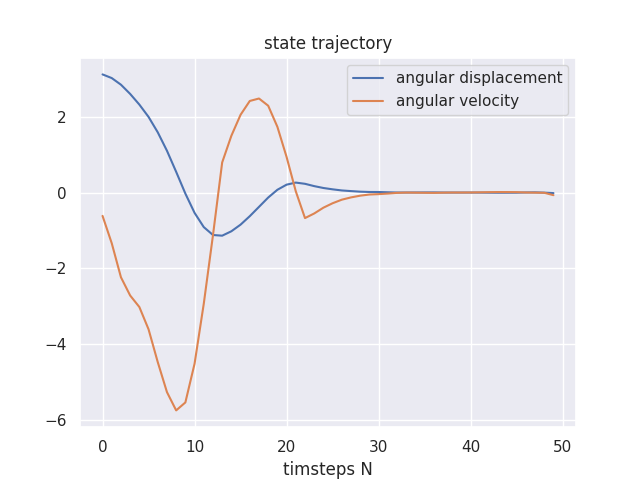
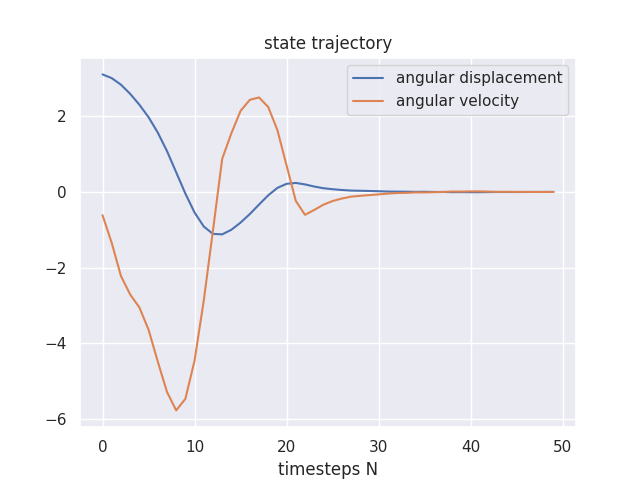
updated graphs

diff --git a/src/noc_algo/mpc_noc.py b/src/noc_algo/mpc_noc.py
@@ -14,7 +14,7 @@ plot_utils = importlib.util.module_from_spec(spec)
 spec.loader.exec_module(plot_utils)
 vis = plot_utils.Plotter(utils_path + 'results/', True)
 
-def extractSolFromNlpSolver(res):
+def extractSolFromNlpSolver(res, iter_count):
     w_opt_np = np.array(res["x"])
 
     u_opt = []
@@ -42,7 +42,7 @@ def extractSolFromNlpSolver(res):
         g_1.append(g[i])
         g_2.append(g[i+1])
 
-    return u_opt, th_opt, thdot_opt, g_1, g_2, loss
+    return u_opt, th_opt, thdot_opt, g_1, g_2, loss, iter_count
 
 
 def simultaneous_opt(x0bar,L, pend_dyn, N , gamma):
@@ -56,7 +56,7 @@ def simultaneous_opt(x0bar,L, pend_dyn, N , gamma):
     x = MX.sym('x',nx,1)
     u = MX.sym('u',nu,1)
     x_next = pend_dyn.simulate_next_state(x, u)
-    print('type x_next:', type(x_next))
+    # print('type x_next:', type(x_next))
     # integrator
     F = Function('F', [x, u], [x_next], \
                 ['x', 'u'], ['x_next'])
@@ -88,8 +88,11 @@ def simultaneous_opt(x0bar,L, pend_dyn, N , gamma):
     nlp = {"x": w,
            "f": L,
            "g": g}
+           
     opts_dict = {}
     opts_dict["ipopt.print_level"] = 0
+    opts_dict["print_time"] = 0
+
     solver = nlpsol('solver','ipopt', nlp, opts_dict)
 
     arg = {}
@@ -101,13 +104,14 @@ def simultaneous_opt(x0bar,L, pend_dyn, N , gamma):
 
     # Solve the problem
     res = solver(**arg)
-    return extractSolFromNlpSolver(res)
+    it = solver.stats()['iter_count']
+    return extractSolFromNlpSolver(res, it)
 
 if __name__ == '__main__':
     
     N_rk4 = 10      # RK4 steps
     dt = 0.1        #delta time s
-    N = 50         # horizon length
+    N = 500         # horizon length
     gamma = 0.99
 
     costs = []
@@ -116,6 +120,8 @@ if __name__ == '__main__':
     thdot_opt_f = [] 
     g_1_f = []
     g_2_f = []
+    iter_f = []
+    iter_total = 0
 
     with contextlib.closing(PendulumEnv(N_rk4 = N_rk4, DT = dt)) as env:
         s = env.reset(fixed = True) #fixed start at pi,0
@@ -123,17 +129,21 @@ if __name__ == '__main__':
         c = 0
         for i in range(N):
             env.render()
-            u_opt, th_opt, thdot_opt, g_1 , g_2, l = simultaneous_opt(s ,c ,env, N-i, gamma)
-            s, c, d, _ = env.step(u_opt[0], noise = False) #state noise
+            u_opt, th_opt, thdot_opt, g_1 , g_2, l, iter_count = simultaneous_opt(s ,c ,env, N-i, gamma)
+            s, c, d, _ = env.step(u_opt[0], noise = True) #state noise
             u_opt_f.append(u_opt[0])
             th_opt_f.append(th_opt[0])
             thdot_opt_f.append(thdot_opt[0])
             costs.append(c)  #gamma is implicit
             g_1_f.append(g_1[0])
             g_2_f.append(g_2[0])
+            iter_f.append(iter_count)
+            
 
         # visualise solution
     print("initial state:", x0bar)
+    print("total iterations:", sum(iter_f))
+    vis.plot_stats(iter_f, sum(iter_f))
     vis.plot_costs(costs)
     vis.plot_state_trajectory(th_opt_f, thdot_opt_f)
     vis.plot_control_trajectory(u_opt_f)

diff --git a/src/utils_common.py b/src/utils_common.py
@@ -14,7 +14,7 @@ class Plotter:
         fig, ax = plt.subplots()
         ax.plot(th, label='angular displacement')
         ax.plot(thdot, label='angular velocity')
-        ax.set_xlabel('timsteps N')
+        ax.set_xlabel('timesteps N')
         ax.set_title('state trajectory')
         ax.legend(loc='upper right')
 
@@ -28,7 +28,7 @@ class Plotter:
         fig, (ax1, ax2) = plt.subplots(2,1, sharex= True)
         ax1.plot(g_1, label='g_1')
         ax2.plot(g_2, label='g_2')
-        ax2.set_xlabel('timsteps N')
+        ax2.set_xlabel('timesteps N')
         fig.suptitle('dynamics')
         ax1.legend(loc='upper right')
         ax2.legend(loc='upper right')
@@ -41,7 +41,7 @@ class Plotter:
     def plot_control_trajectory(self, u):
             fig, ax = plt.subplots()
             ax.plot(u, label='Control')
-            ax.set_xlabel('timsteps N')
+            ax.set_xlabel('timesteps N')
             ax.set_title('Control trajectory')
             ax.legend(loc='upper right')
 
@@ -54,7 +54,7 @@ class Plotter:
     def plot_costs(self, costs):
         fig, ax = plt.subplots()
         ax.plot(costs, label='Cost')
-        ax.set_xlabel('timsteps N')
+        ax.set_xlabel('timesteps N')
         ax.set_title('Cost trajectory')
         ax.legend(loc='upper right')
 
@@ -64,3 +64,17 @@ class Plotter:
             fig.savefig(self.result_path + 'Cost_noc.png')
         else:
             fig.savefig(self.result_path + 'Cost_rl.png')
+
+    def plot_stats(self, stats, total):
+        fig, ax = plt.subplots()
+        ax.plot(stats, label='iterations')
+        ax.set_xlabel('timesteps N')
+        ax.set_title('No. of iterations to find solution (Total = %d)'%(total) )
+        ax.legend(loc='upper right')
+
+        #save the plot
+        my_path = os.path.abspath(__file__)
+        if (self.is_noc):
+            fig.savefig(self.result_path + 'iter_noc.png')
+        else:
+            fig.savefig(self.result_path + 'iter_rl.png')

diff --git a/src/rl_algo/mypendulum.py b/src/rl_algo/mypendulum.py
@@ -50,7 +50,7 @@ class PendulumEnv(gym.Env):
         # return vertcat(omega, self.t1 * np.sin(theta + np.pi) + self.t2*u)
         return dyn_eqn
 
-    def rk4step(self, x, u, h):
+    def rk4step(self, x, u, h, noise):
         # % one rk4 step
         # % inputs:
         # %  x             initial state of integration
@@ -65,11 +65,12 @@ class PendulumEnv(gym.Env):
         x_next = x + h/6*(k1 + 2*k2 + 2*k3 + k4)
         a_max = np.array([np.pi, self.max_speed])
 
-        x_next[1] += np.random.normal(loc=0.0, scale=0.01, size=None)
+        if noise:
+            x_next[1] += np.random.normal(loc=0.0, scale=0.01, size=None)
         x_next = np.clip(x_next, a_min = -a_max, a_max = a_max)
         return x_next
 
-    def step(self,u):
+    def step(self,u, noise):
         th, thdot = self.state # th := theta
 
         # g = 10.
@@ -96,7 +97,7 @@ class PendulumEnv(gym.Env):
         else: #rk4 integrator
             h = dt/self.N_rk4
             for i in range(self.N_rk4):
-                self.state = self.rk4step(self.state, u, h)
+                self.state = self.rk4step(self.state, u, h, noise)
 
         return self._get_obs(), -costs, False, {}
 

diff --git a/src/rl_algo/run_ddpg_continuous.py b/src/rl_algo/run_ddpg_continuous.py
@@ -66,7 +66,7 @@ if __name__ == '__main__':
                 for _ in range(500):
                     env.render()
                     a = ddpg.get_action(s, is_testing=True)
-                    s, _, d, _ = env.step(a)
+                    s, _, d, _ = env.step(a, noise = True)
                     time.sleep(env.dt)
                     if d:
                         break
